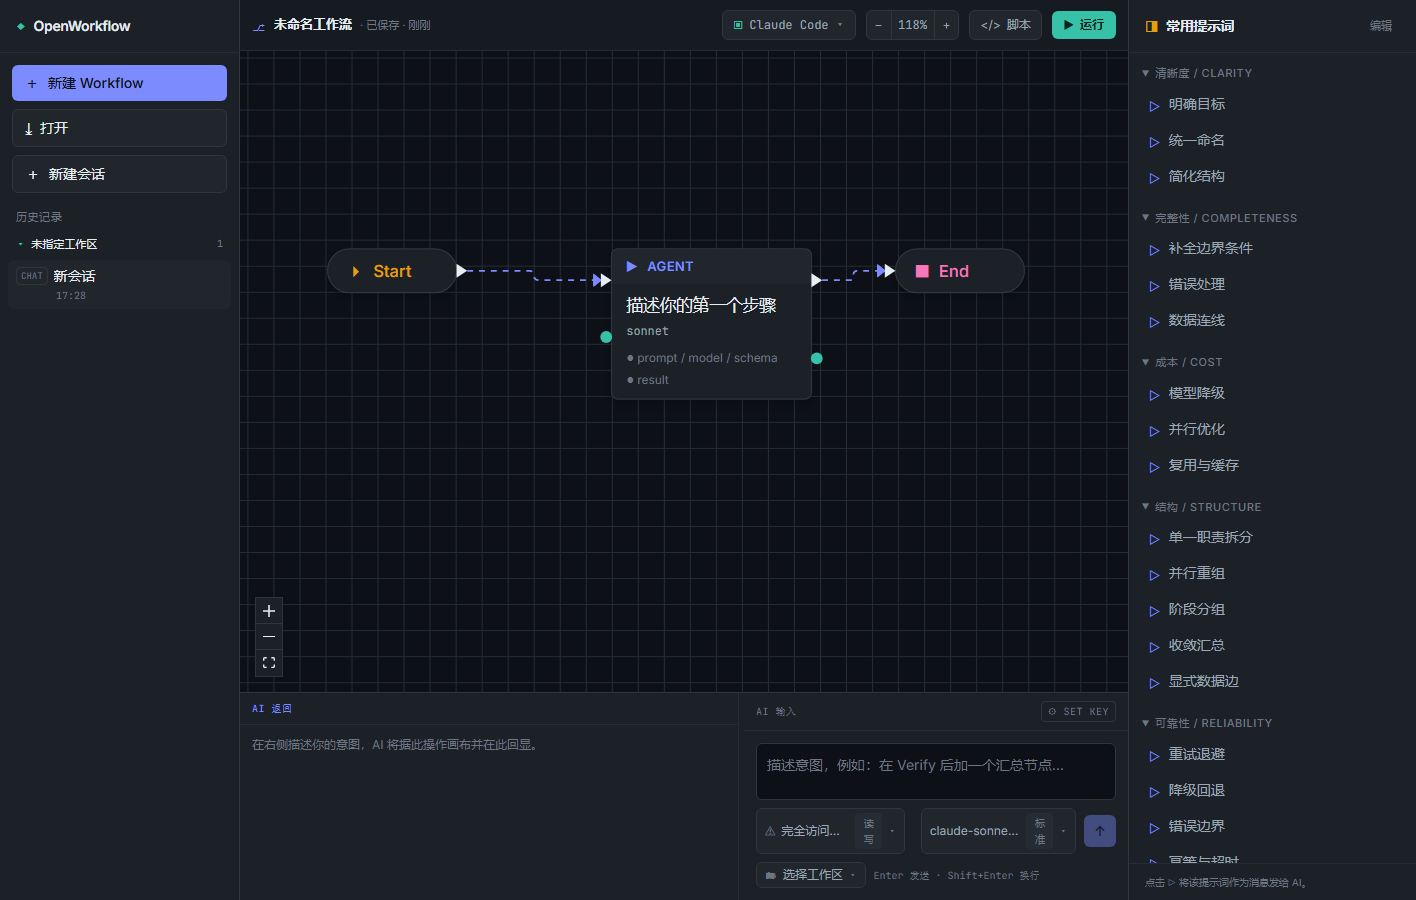
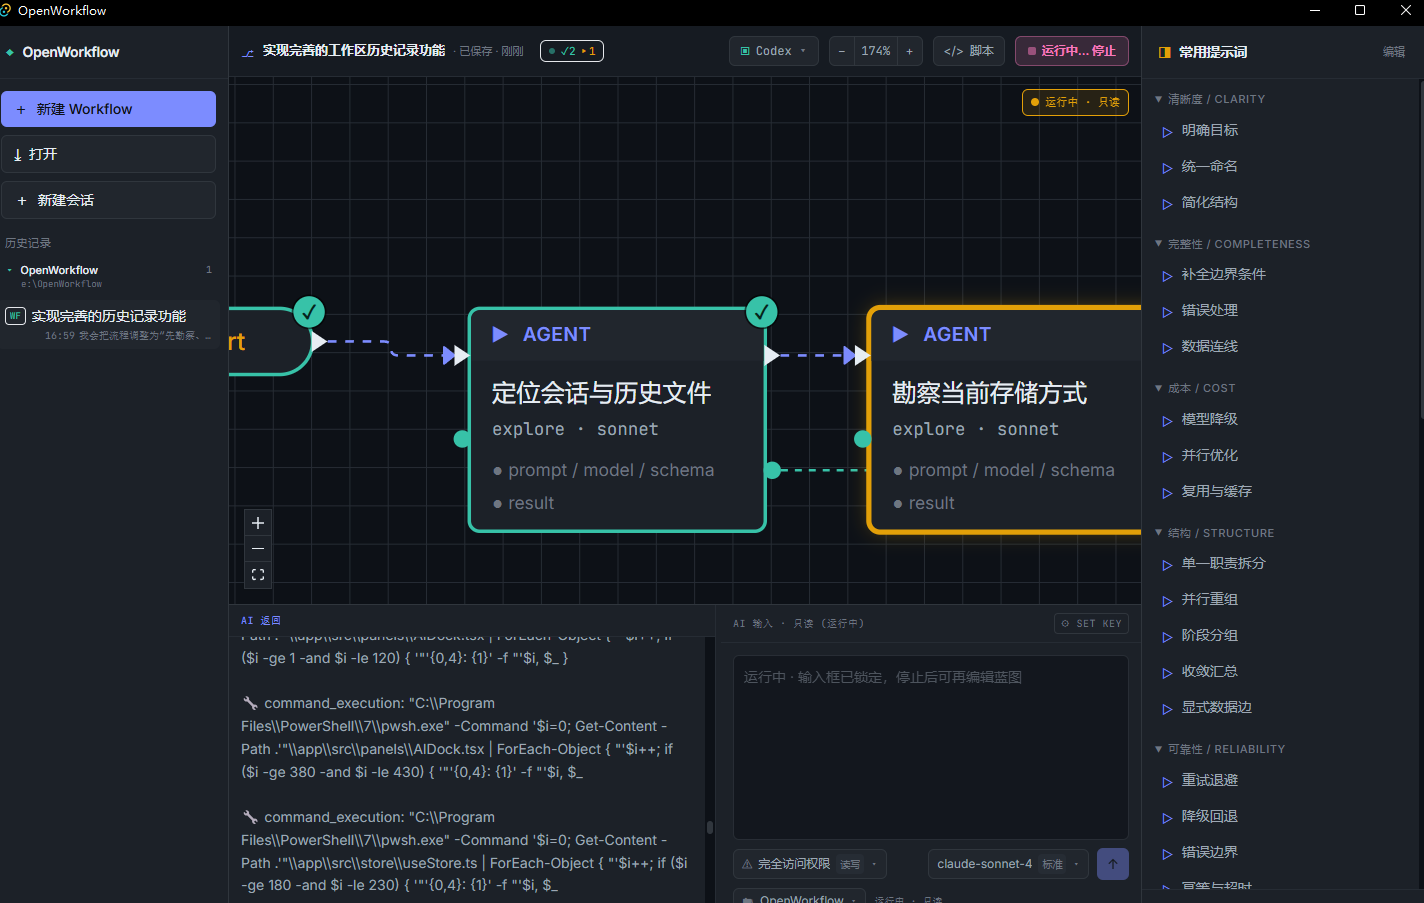
Add README language switcher and provided screenshot

diff --git a/README.md b/README.md
@@ -1,5 +1,9 @@
 # OpenWorkflow
 
+<div align="center">
+  English | <a href="README.zh-CN.md">中文</a>
+</div>
+
 OpenWorkflow is a Tauri desktop editor for AI workflow graphs. It lets you design workflows visually, inspect node-level settings, run them locally, and compile the same IR into executable Claude Code-style scripts.
 
 ![OpenWorkflow editor screenshot](docs/assets/openworkflow-editor.png)

diff --git a/README.zh-CN.md b/README.zh-CN.md
@@ -1,5 +1,9 @@
 # OpenWorkflow
 
+<div align="center">
+  <a href="README.md">English</a> | 中文
+</div>
+
 OpenWorkflow 是一个 Tauri 桌面端工作流编辑器。它支持用可视化方式编排 AI 工作流，直接调整节点参数，在本地运行，并把同一份 IR 转成可执行的 Claude Code 风格脚本。
 
 ![OpenWorkflow 编辑器截图](docs/assets/openworkflow-editor.png)